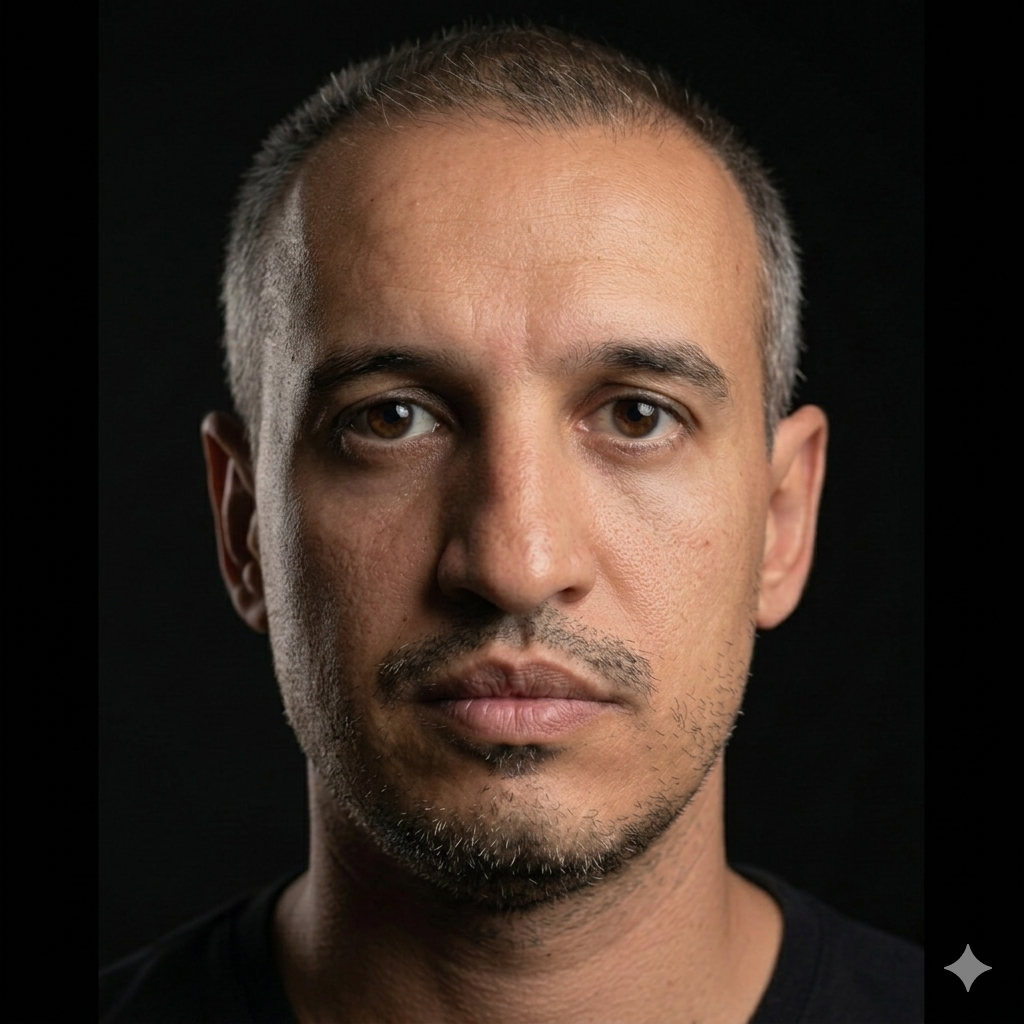
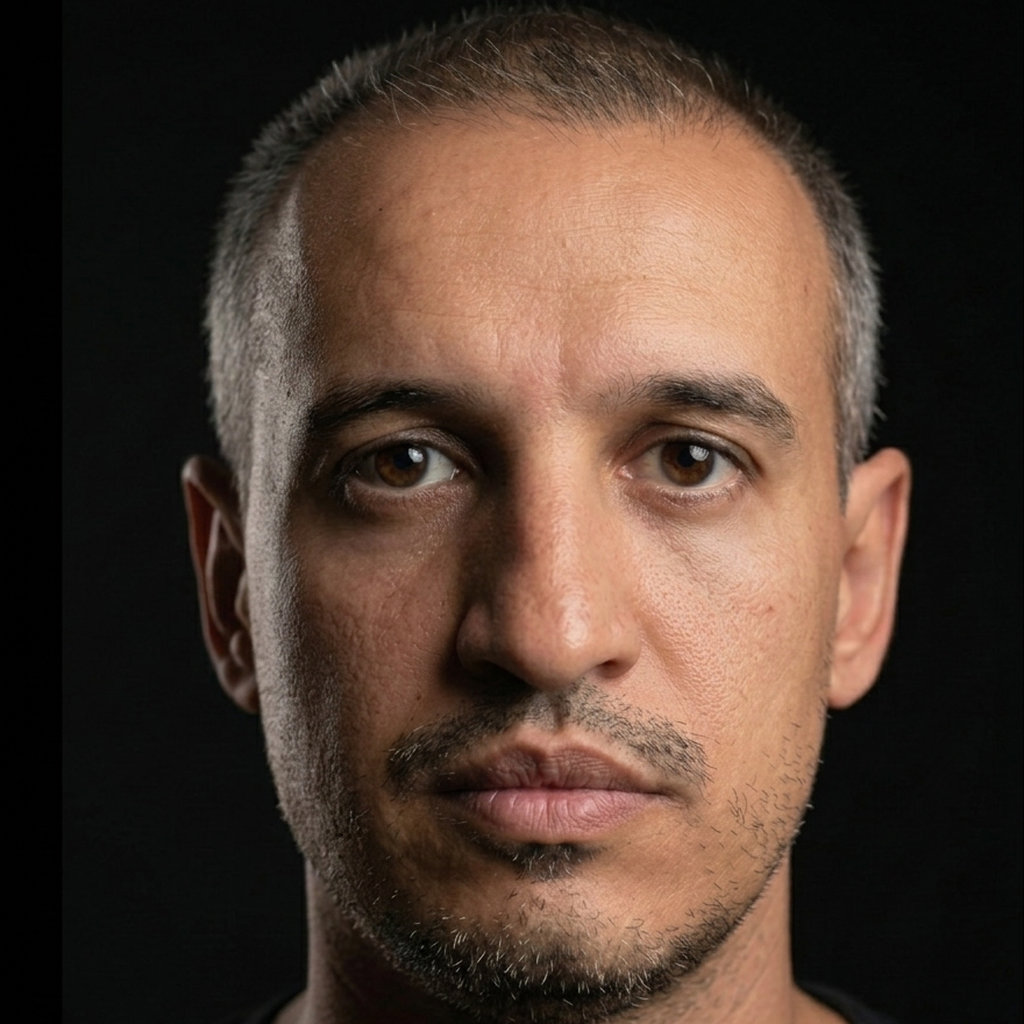
Minor adjustments

diff --git a/styles.css b/styles.css
@@ -80,7 +80,6 @@ a:hover {
   height: 100%;
   object-fit: cover;
   object-position: center;
-  transform: scale(1.12);
 }
 
 .eyebrow,
@@ -129,9 +128,21 @@ h3 {
 
 .headline {
   max-width: 760px;
-  margin-bottom: 20px;
+  margin-bottom: 14px;
   color: #dbeafe;
   font-size: 1.13rem;
+}
+
+.availability {
+  display: inline-flex;
+  margin-bottom: 16px;
+  padding: 5px 10px;
+  color: #ecfeff;
+  background: rgba(15, 118, 110, 0.34);
+  border: 1px solid rgba(167, 243, 208, 0.38);
+  font-size: 0.84rem;
+  font-weight: 800;
+  line-height: 1.25;
 }
 
 .contact-list {
@@ -161,6 +172,7 @@ h3 {
 
 .summary-block,
 .impact,
+.project-philosophy,
 .content-grid {
   padding-inline: 56px;
 }
@@ -217,6 +229,46 @@ h3 {
   margin-bottom: 0;
   color: var(--muted);
   font-size: 0.94rem;
+}
+
+.project-philosophy {
+  display: grid;
+  grid-template-columns: minmax(0, 1.35fr) minmax(280px, 0.65fr);
+  gap: 42px;
+  padding-top: 36px;
+  padding-bottom: 38px;
+  border-bottom: 1px solid var(--line);
+}
+
+.project-list {
+  display: grid;
+  grid-template-columns: repeat(2, minmax(0, 1fr));
+  gap: 10px;
+  padding: 0;
+  list-style: none;
+}
+
+.project-list li {
+  margin: 0;
+  padding: 11px 13px;
+  color: #163d59;
+  background: var(--wash);
+  border-left: 4px solid var(--blue);
+  font-size: 0.94rem;
+  font-weight: 750;
+  line-height: 1.35;
+}
+
+.philosophy {
+  padding: 20px;
+  background: #f8fafc;
+  border: 1px solid #dbe5f2;
+}
+
+.philosophy p:last-child {
+  margin-bottom: 0;
+  color: var(--muted);
+  font-size: 0.98rem;
 }
 
 .content-grid {
@@ -345,6 +397,7 @@ li {
 
   .profile,
   .summary-block,
+  .project-philosophy,
   .content-grid {
     grid-template-columns: 1fr;
   }
@@ -362,12 +415,17 @@ li {
 
   .summary-block,
   .impact,
+  .project-philosophy,
   .content-grid {
     padding-inline: 26px;
   }
 
   .impact-grid {
     grid-template-columns: repeat(2, minmax(0, 1fr));
+  }
+
+  .project-list {
+    grid-template-columns: 1fr;
   }
 
   .role-header {
@@ -408,6 +466,7 @@ li {
   .impact-grid article {
     min-height: 0;
   }
+
 }
 
 @media print {
@@ -500,9 +559,18 @@ li {
 
   .headline {
     max-width: 100%;
-    margin-bottom: 8px;
+    margin-bottom: 5px;
     color: #dbeafe !important;
     font-size: 9.2pt;
+  }
+
+  .availability {
+    margin-bottom: 6px;
+    padding: 2px 6px;
+    color: #ecfeff !important;
+    background: rgba(15, 118, 110, 0.34) !important;
+    border-color: rgba(167, 243, 208, 0.38) !important;
+    font-size: 7.2pt;
   }
 
   .contact-list {
@@ -520,6 +588,7 @@ li {
 
   .summary-block,
   .impact,
+  .project-philosophy,
   .content-grid {
     padding-inline: 22px;
   }
@@ -561,6 +630,38 @@ li {
   .metric {
     margin-bottom: 4px;
     font-size: 11pt;
+  }
+
+  .project-philosophy {
+    display: grid;
+    grid-template-columns: minmax(0, 1.2fr) minmax(190px, 0.8fr);
+    gap: 18px;
+    padding-top: 14px;
+    padding-bottom: 16px;
+    break-inside: avoid;
+  }
+
+  .project-list {
+    display: grid;
+    grid-template-columns: repeat(2, minmax(0, 1fr));
+    gap: 5px;
+  }
+
+  .project-list li {
+    padding: 5px 7px;
+    background: #edf4ff !important;
+    border-left-color: #2563eb !important;
+    font-size: 7.8pt;
+  }
+
+  .philosophy {
+    padding: 10px;
+    background: #f8fafc !important;
+    border-color: #dbe5f2 !important;
+  }
+
+  .philosophy p:last-child {
+    font-size: 8.4pt;
   }
 
   .content-grid {
@@ -635,11 +736,16 @@ li {
 @media print and (max-width: 700px) {
   .profile,
   .summary-block,
+  .project-philosophy,
   .content-grid {
     grid-template-columns: 1fr;
   }
 
   .impact-grid {
+    grid-template-columns: 1fr;
+  }
+
+  .project-list {
     grid-template-columns: 1fr;
   }
 

diff --git a/index.html b/index.html
@@ -5,19 +5,39 @@
     <meta name="viewport" content="width=device-width, initial-scale=1" />
     <meta
       name="description"
-      content="William Pavei Antero - Principal Solution Architect and Staff+ engineering leader specializing in enterprise platforms, distributed systems, AI, and cloud solutions."
+      content="Principal Solution Architect specialized in distributed systems, cloud-native platforms, Ruby on Rails, AI-assisted engineering, and enterprise modernization."
     />
     <meta name="theme-color" content="#0f172a" />
-    <title>William Pavei Antero | Principal Solution Architect</title>
+    <meta property="og:type" content="profile" />
+    <meta property="og:title" content="William Antero | Principal Solution Architect" />
+    <meta
+      property="og:description"
+      content="Principal Solution Architect specialized in distributed systems, cloud-native platforms, Ruby on Rails, AI-assisted engineering, and enterprise modernization."
+    />
+    <meta property="og:url" content="https://wantero.github.io/resume/" />
+    <meta
+      property="og:image"
+      content="https://wantero.github.io/resume/assets/william-antero-profile.png"
+    />
+    <meta property="og:site_name" content="William Antero Resume" />
+    <meta name="twitter:card" content="summary" />
+    <meta name="twitter:title" content="William Antero | Principal Solution Architect" />
+    <meta
+      name="twitter:description"
+      content="Principal Solution Architect specialized in distributed systems, cloud-native platforms, Ruby on Rails, AI-assisted engineering, and enterprise modernization."
+    />
+    <link rel="canonical" href="https://wantero.github.io/resume/" />
+    <title>William Antero | Principal Solution Architect</title>
     <link rel="stylesheet" href="styles.css" />
     <script type="application/ld+json">
       {
         "@context": "https://schema.org",
         "@type": "Person",
         "name": "William Pavei Antero",
-        "jobTitle": "Principal Solution Architect",
+        "jobTitle": "Principal Solution Architect | Staff+ Engineering Leader",
         "email": "mailto:[email redacted]",
         "telephone": "+55 11 98987-2002",
+        "image": "https://wantero.github.io/resume/assets/william-antero-profile.png",
         "address": {
           "@type": "PostalAddress",
           "addressLocality": "Sao Paulo",
@@ -56,6 +76,7 @@
             Enterprise platforms, distributed systems, AI-assisted engineering, and
             cloud-native modernization for global-scale environments.
           </p>
+          <p class="availability">Open to remote opportunities</p>
           <ul class="contact-list" aria-label="Contact information">
             <li>Sao Paulo, Brazil</li>
             <li><a href="mailto:[email redacted]">[email redacted]</a></li>
@@ -104,6 +125,28 @@
             <span class="metric">Founder</span>
             <p>Founded and scaled a technology consulting company serving enterprise clients across Latin America.</p>
           </article>
+        </div>
+      </section>
+
+      <section class="project-philosophy" aria-labelledby="projects-title">
+        <div>
+          <p class="section-kicker">Enterprise Projects</p>
+          <h2 id="projects-title">Selected Enterprise Projects</h2>
+          <ul class="project-list">
+            <li>Global Ruby on Rails platform modernization</li>
+            <li>Multi-country Workday integration architecture</li>
+            <li>AI-powered enterprise automation systems</li>
+            <li>Insurance direct-to-consumer platform</li>
+            <li>Cloud-native data migration pipelines</li>
+          </ul>
+        </div>
+        <div class="philosophy">
+          <p class="section-kicker">Engineering Philosophy</p>
+          <p>
+            I enjoy solving complex scalability and modernization challenges
+            while staying close to the code, the architecture, and the
+            engineering teams delivering the work.
+          </p>
         </div>
       </section>
 

diff --git a/resume.md b/resume.md
@@ -2,6 +2,7 @@
 
 Principal Solution Architect | Staff+ Engineering Leader  
 Enterprise Platforms | Distributed Systems | AI & Cloud Solutions  
+Open to remote opportunities  
 Sao Paulo, Brazil | [email redacted] | +55 11 98987-2002  
 LinkedIn: https://www.linkedin.com/in/wantero | GitHub: https://github.com/wantero
 
@@ -16,6 +17,18 @@ Principal-level solution architect and engineering leader with more than 20 year
 - Architected AI-powered and cloud-native enterprise platforms using Azure, Kubernetes, OpenSearch, Redis, and distributed systems.
 - Founded and scaled a technology consulting company serving enterprise clients across Latin America.
 - Built scalable enterprise platforms across cloud, ERP modernization, integrations, and distributed environments for more than 20 years.
+
+## Selected Enterprise Projects
+
+- Global Ruby on Rails platform modernization
+- Multi-country Workday integration architecture
+- AI-powered enterprise automation systems
+- Insurance direct-to-consumer platform
+- Cloud-native data migration pipelines
+
+## Engineering Philosophy
+
+I enjoy solving complex scalability and modernization challenges while staying close to the code, the architecture, and the engineering teams delivering the work.
 
 ## Work Experience
 

diff --git a/README.md b/README.md
@@ -42,3 +42,7 @@ node tools/validate-page.mjs http://127.0.0.1:8000/index.html /tmp
 ## Privacy Note
 
 This resume includes direct email and phone contact information. For a public repository, consider replacing the phone number with LinkedIn contact routing if reducing spam exposure is important.
+
+## SEO Note
+
+The Open Graph and canonical metadata currently assume the site will be published at `https://wantero.github.io/resume/`. If the final GitHub Pages URL changes, update the `og:url`, `og:image`, and `canonical` values in `index.html`.